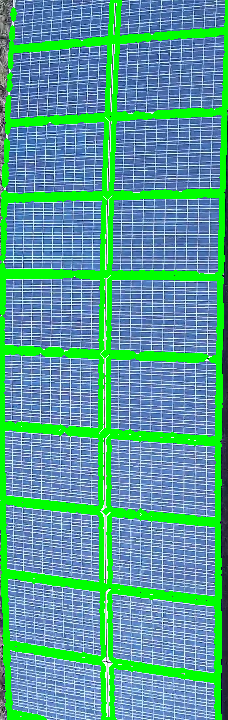
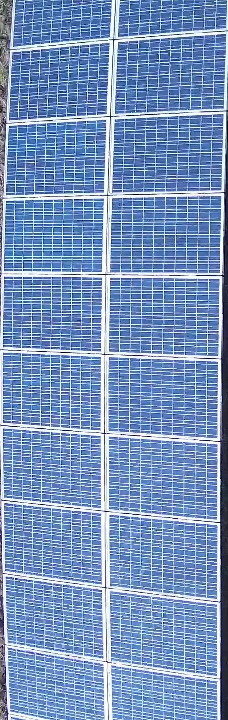
modificación recorte: se copia la imagen rgb

Changed region(s): [[0.0, 0.0, 1.0, 1.0]]

diff --git a/PreProcessing.py b/PreProcessing.py
@@ -6,9 +6,12 @@ gray_image = cv2.cvtColor(imagen_rgb, cv2.COLOR_BGR2GRAY)
 box_blur = cv2.blur(gray_image,(4,4))
 gaussian = cv2.GaussianBlur(gray_image,(7,7),0)
 
+new_imagergb = imagen_rgb.copy()
+cv2.imshow('imagen',new_imagergb) # nueva imagen para el recorte
+
 _,threshold_image = cv2.threshold(gaussian, 180, 255, cv2.THRESH_BINARY)
 contorno,_ = cv2.findContours(threshold_image, cv2.RETR_TREE, cv2.CHAIN_APPROX_SIMPLE)
-contornos_dibujados = cv2.drawContours(imagen_rgb,contorno,-1,(0,255,0),3)
+contornos_dibujados = cv2.drawContours(imagen_rgb,contorno,-1,(0,255,0),3)  # crear los contornos en imagen rgb
 
 # Ordenar los contornos por área para seleccionar los paneles más grandes
 contours = sorted(contorno, key=cv2.contourArea, reverse=True)
@@ -22,7 +25,7 @@ for i in range(2):
     x, y, w, h = cv2.boundingRect(contours[i])
     
     # Recortar la imagen usando las coordenadas del rectángulo
-    panel_crop = imagen_rgb[y:y+h, x:x+w]
+    panel_crop = new_imagergb[y:y+h, x:x+w] # se usa la nueva imagen para recortar 
     panel_crops.append(panel_crop)
     
     # Guardar cada recorte individualmente
